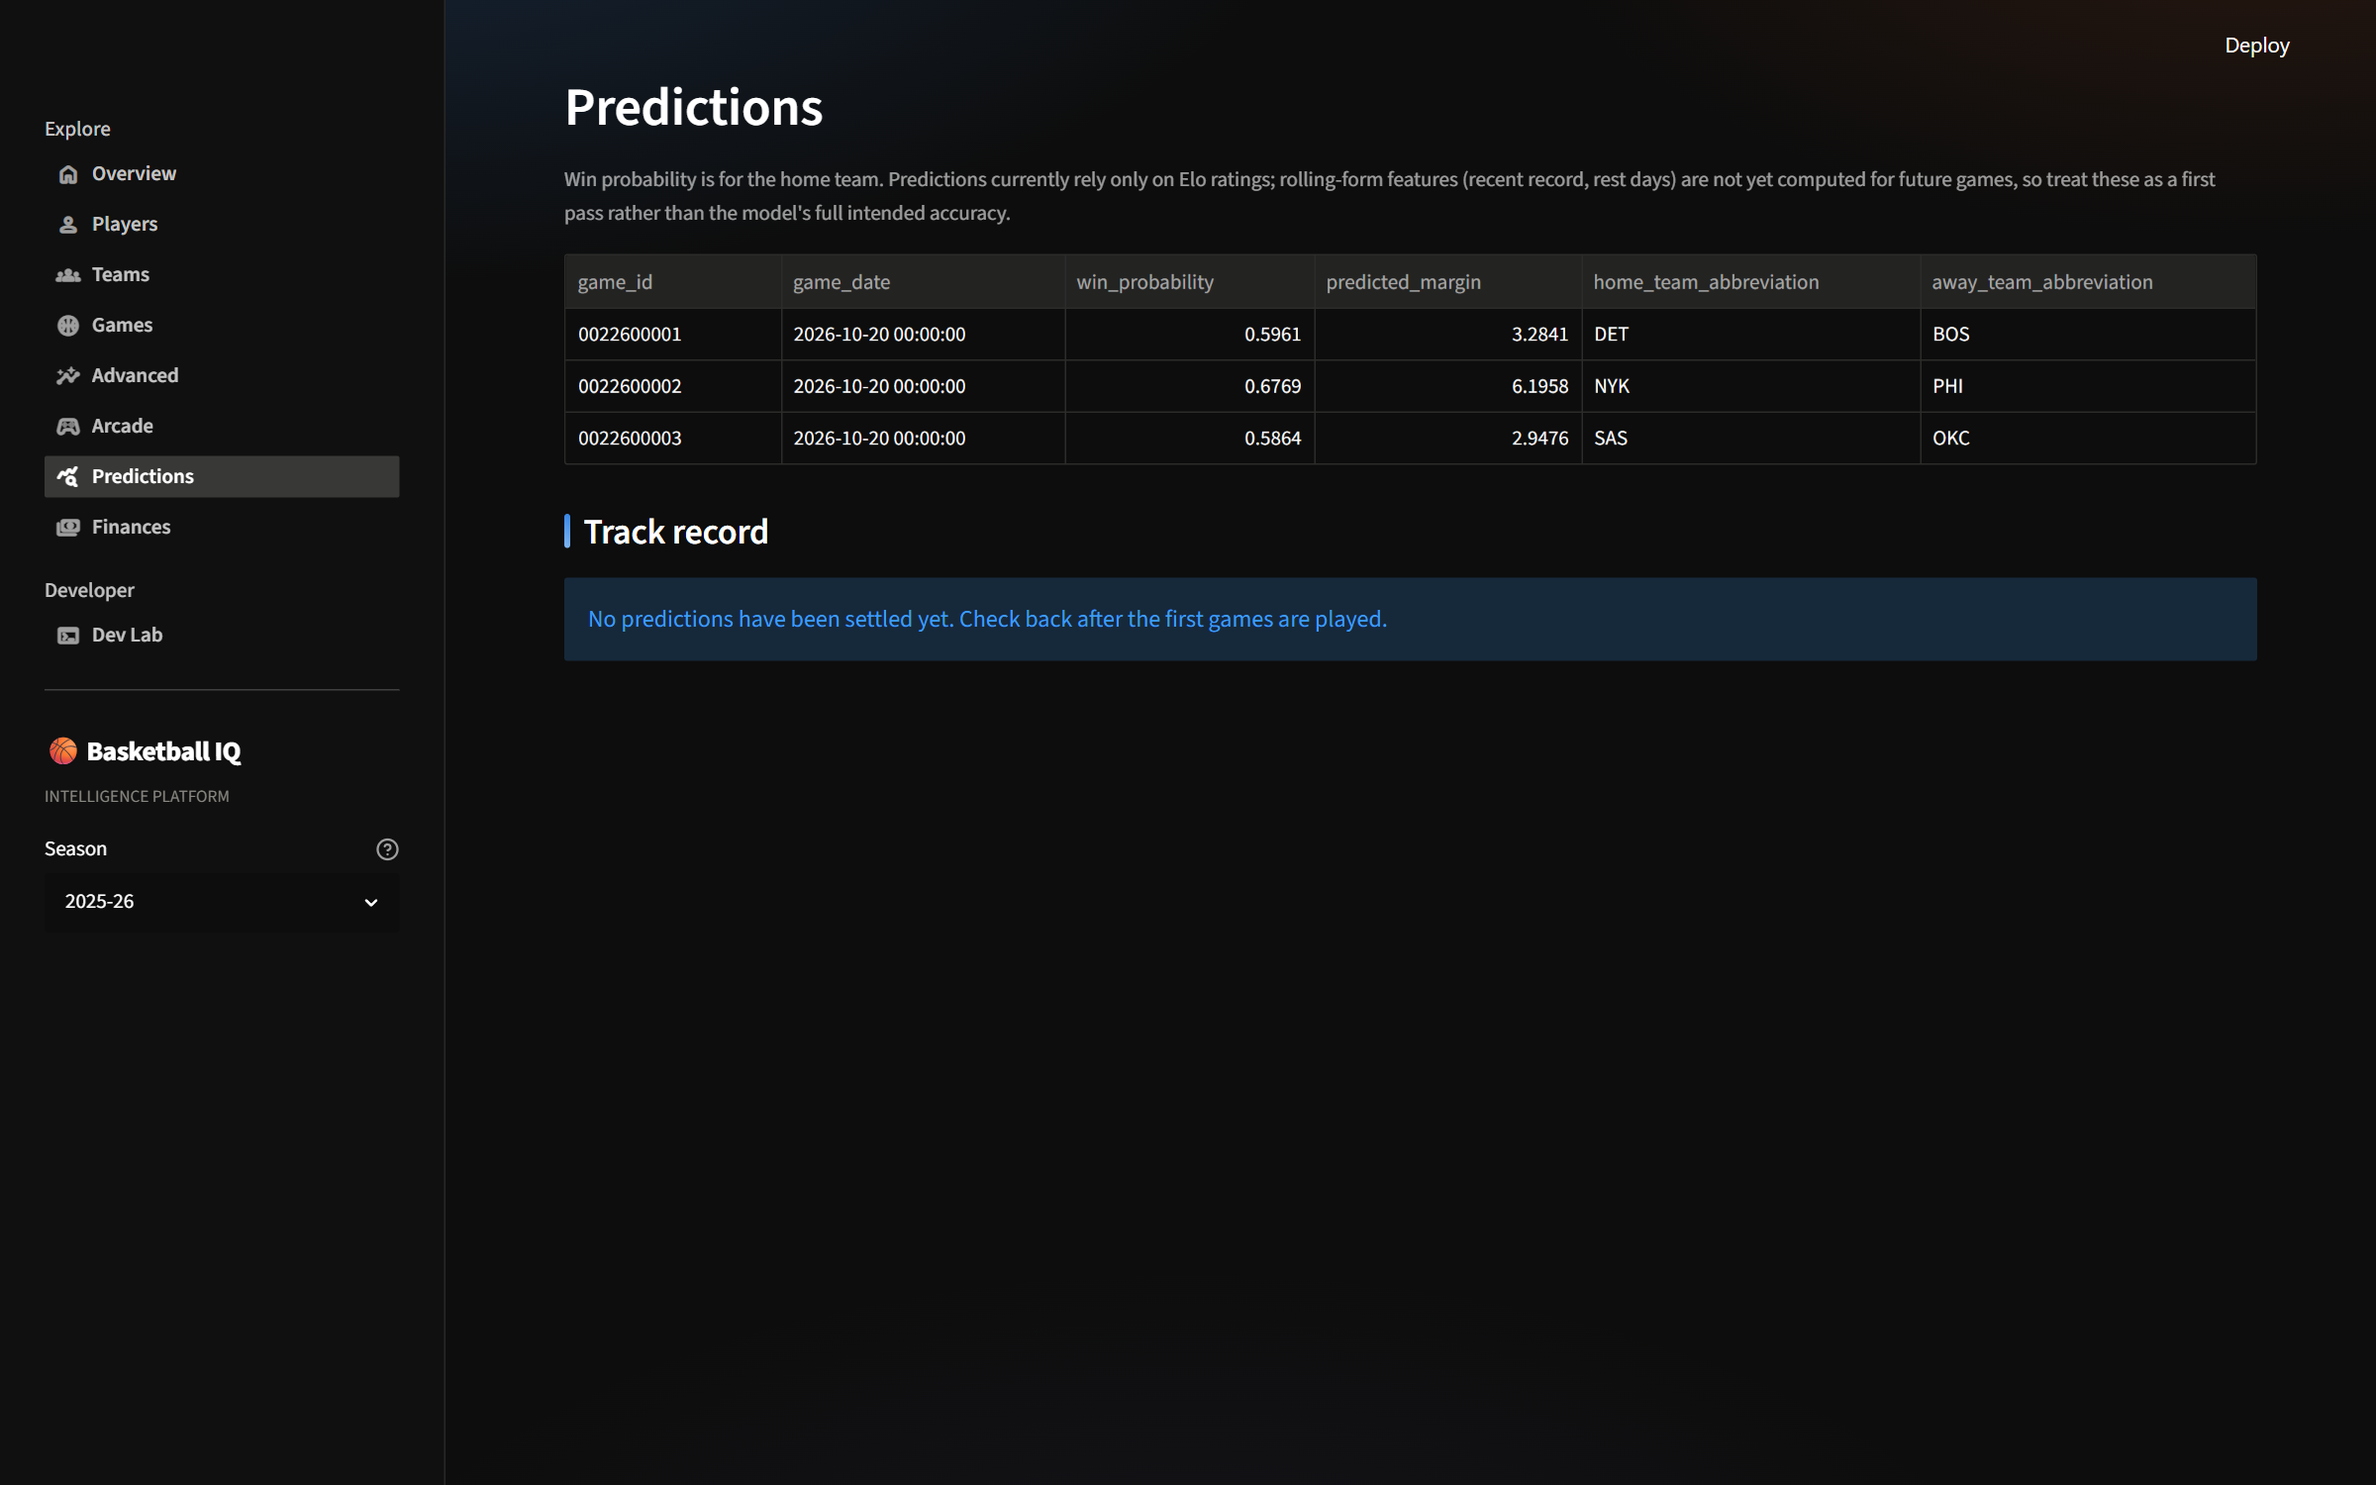
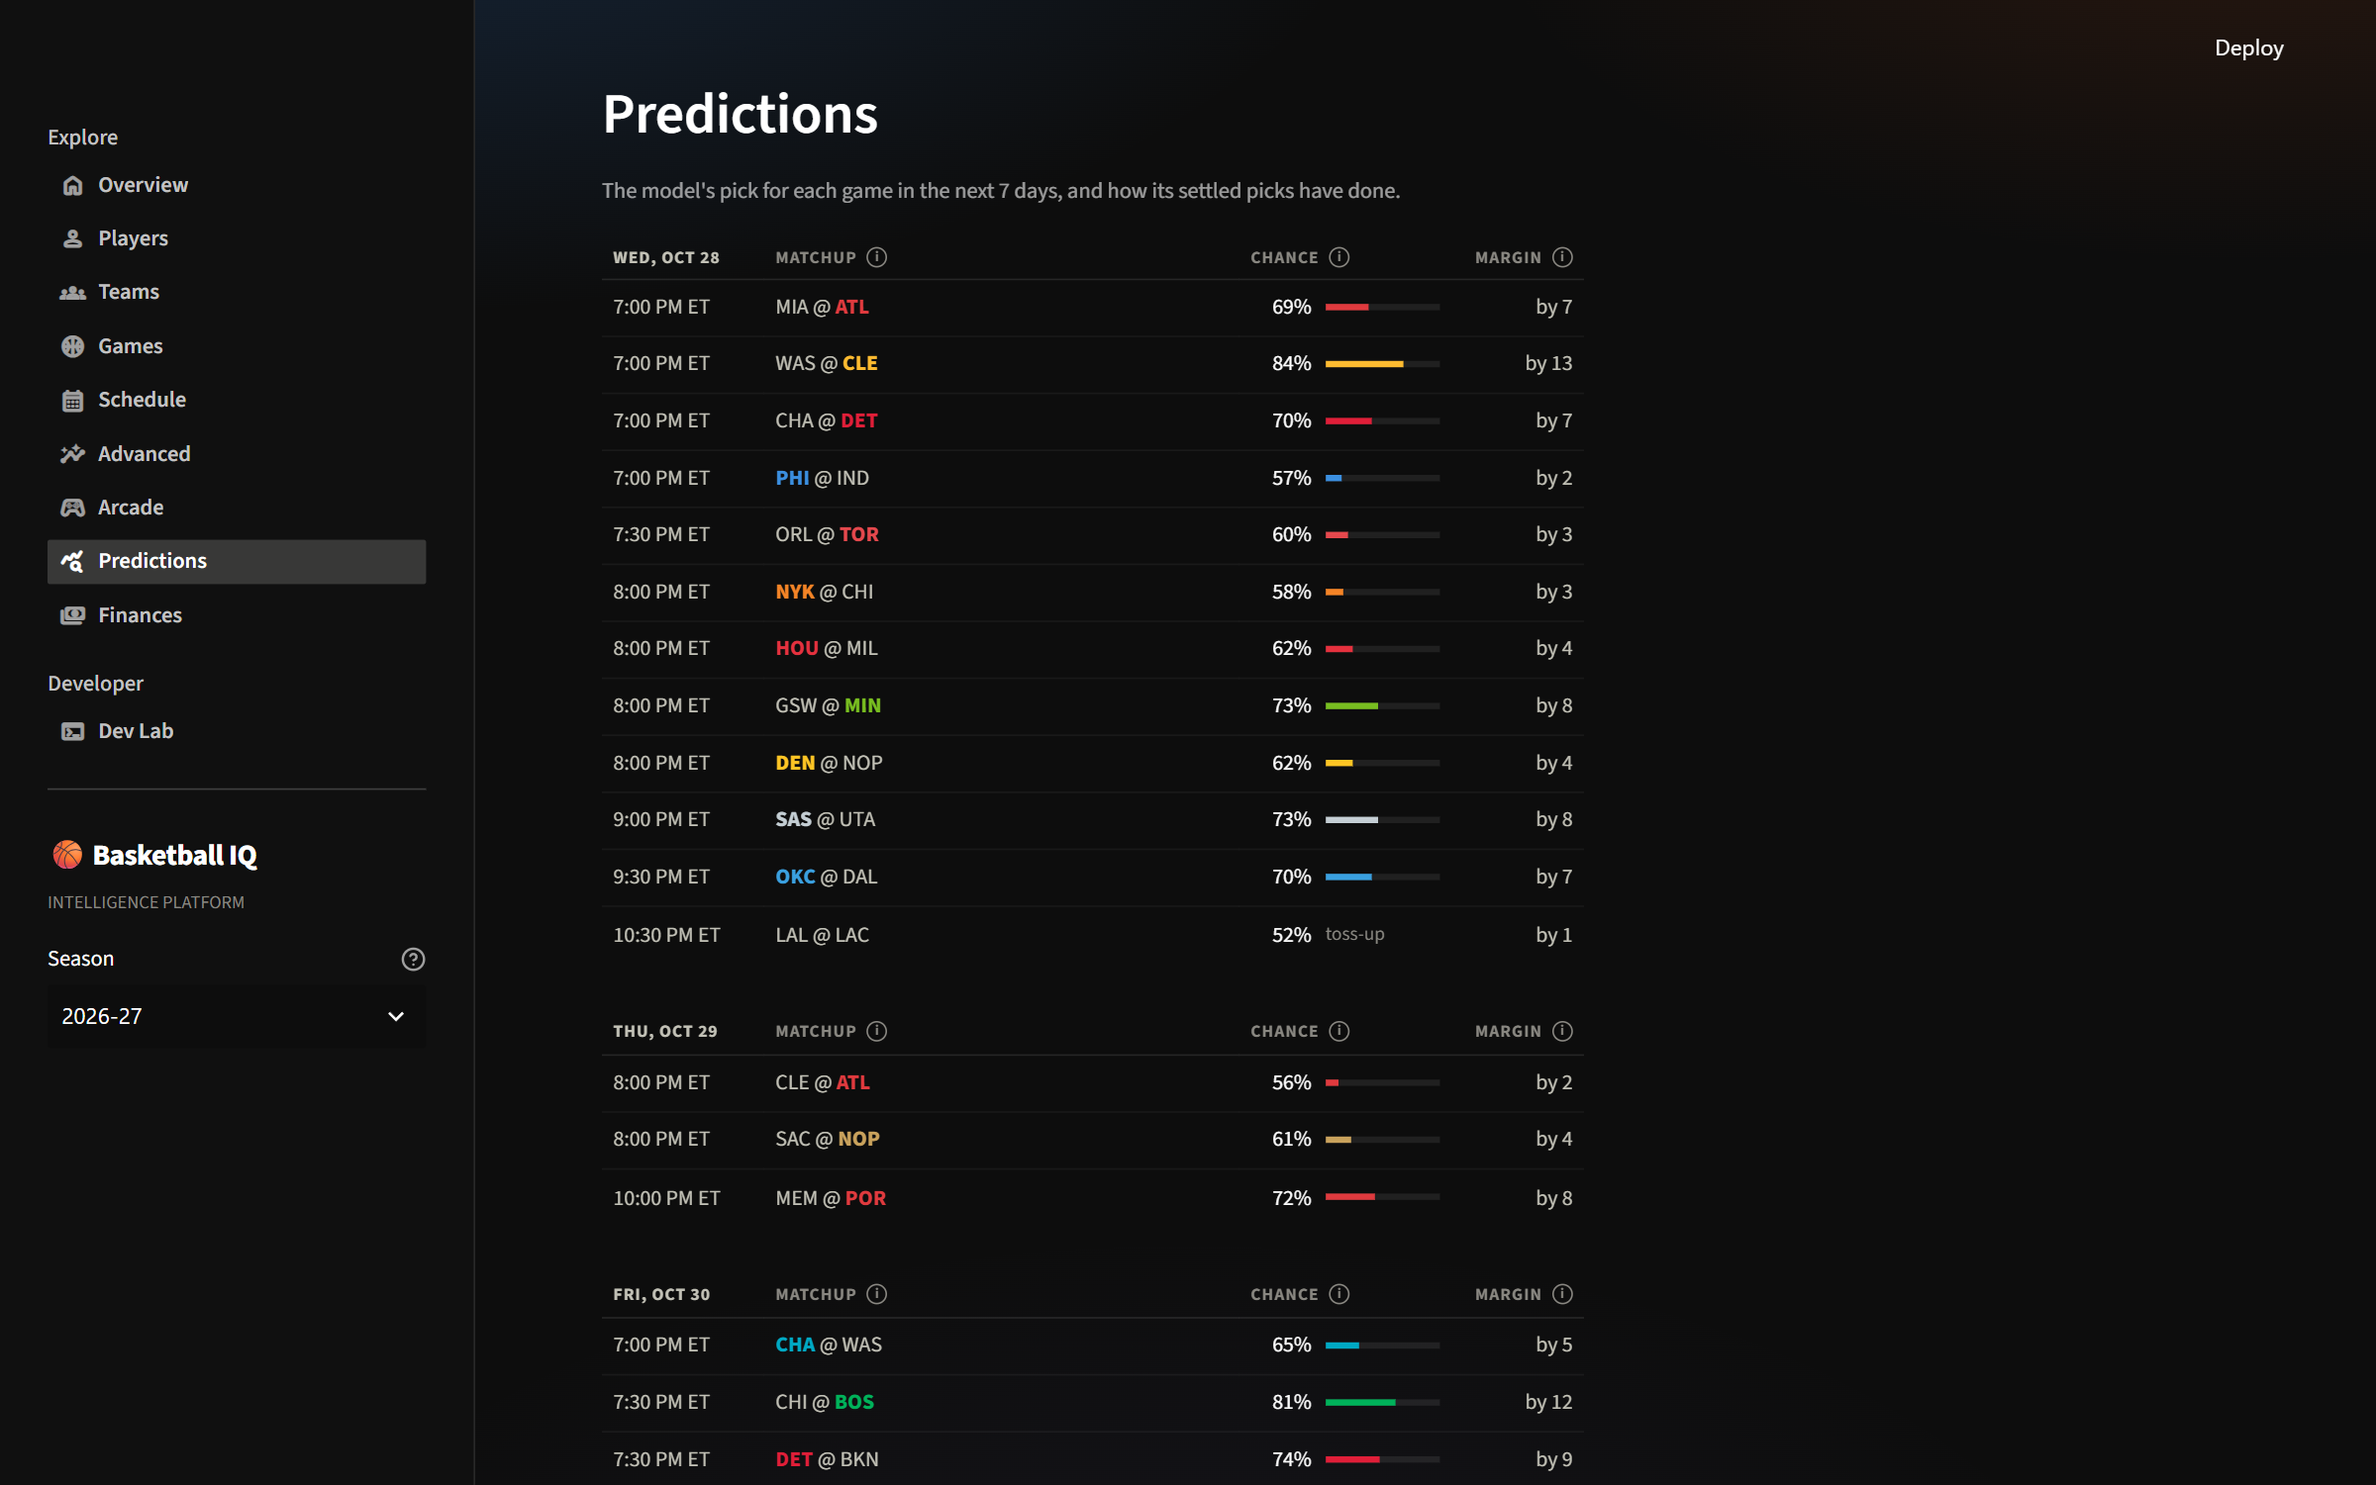
Document the diagnosis views, schedule and predictions
The README still described the Four Factors table, the card-based
Predictions page and no Schedule page. It now covers the Teams ranks,
player breakdown and two-stat scatter, the Players Stats/Scatter/Compare
tabs, the Schedule calendar and the compact Predictions list, in the same
evidence-first terms. Screenshots for Teams, Players and Predictions are
retaken against the new pages and schedule.png is new.

ADR 0006 records that the defensive on/off is an estimate (how it is
derived, when it is shown, and that it is noisy). The architecture
diagram gains the Schedule page and the four new marts. The settled
predictions mart's header no longer says the dashboard keeps a copy of
its SQL, since the copy and its test are gone; comment only, dbt build
still passes. Test and mart counts in the README and CONTRIBUTING are
brought up to date.

diff --git a/README.md b/README.md
@@ -4,8 +4,8 @@
 
 A local-first NBA data platform: ingest NBA stats and team salaries, warehouse
 them in DuckDB, model them with dbt, and serve a public dashboard covering
-players, teams, games, advanced stats, team finances and game predictions
-across 47 seasons of NBA history. Natural-language Q&A is not built yet; see
+players, teams, games, the schedule, advanced stats, team finances and game
+predictions across 47 seasons of NBA history. Natural-language Q&A is not built yet; see
 Status / roadmap below.
 
 ## Screenshots
@@ -13,12 +13,12 @@ Status / roadmap below.
 **Overview** - best record, league and efficiency leaders, conference standings
 ![Overview](site_pictures/overview.png)
 
-**Players** - season stats table; player detail with scoring trend and
-shooting-vs-league comparison
+**Players** - a player's detail on the Stats tab: scoring trend with a stat
+picker, shooting-vs-league percentiles and a colour-coded game log
 ![Players](site_pictures/players.png)
 
-**Teams** - one team in depth: ratings with league ranks, the Four Factors,
-record splits and its roster, with full standings in their own tab
+**Teams** - one team in depth: where it ranks in the league on about 17
+stats, then a breakdown of its players in each area
 ![Teams](site_pictures/teams.png)
 
 **Games** - results browser; game detail with a score-margin flow chart and
@@ -33,8 +33,12 @@ and a per-player percentile profile
 with a plain-English summary and the team's biggest contracts
 ![Finances](site_pictures/finances.png)
 
-**Predictions** - upcoming games as cards with each team's win probability
-and the expected margin, plus the model's track record
+**Schedule** - a month calendar with a day view: finals with each game's top
+scorer and a link to the game, or tip-offs with the model's pick
+![Schedule](site_pictures/schedule.png)
+
+**Predictions** - the next week of games as a compact list with the model's
+pick, chance and margin, plus its track record
 ![Predictions](site_pictures/predictions.png)
 
 **Arcade** - Higher or Lower, Mystery Player, and Build a team: build or
@@ -61,9 +65,11 @@ dbt (dbt-duckdb)
                         (both hand-curated)
         - staging       clean, rename, type raw tables (views)
         - intermediate  pair each team-game with its opponent
-        - marts         every number the site shows: player seasons, stints
-                        and careers, team seasons, standings, game features,
-                        team finances, contracts, graded predictions
+        - marts         every number the site shows: player seasons, stints,
+                        careers and game logs, team seasons, standings,
+                        league ranks and percentiles, defensive on/off,
+                        game features, team finances, contracts, graded
+                        predictions
         |
         v
 ml/                                Elo + ridge model; appends predictions to
@@ -156,9 +162,10 @@ ml/                                # Elo ratings, ridge model, backtest, predict
 dashboard/app.py                   # Streamlit app entry point
 dashboard/lib/data/                # read-only queries, one module per domain
 dashboard/lib/                     # charts, cards, theme, simulator, franchise lineage,
-                                   # payroll wording, stat glossary
-dashboard/views/                   # one module per page; arcade/ is a package with
-                                   # one module per game
+                                   # payroll wording, stat glossary, matchup and
+                                   # compare helpers
+dashboard/views/                   # one module per page; arcade/, players/ and teams/
+                                   # are packages (one module per game or tab)
 data/predictions/history.csv       # every published prediction (committed)
 data/fixtures/                     # small real-data slices CI builds its warehouse from
 tests/                             # pytest suite
@@ -177,19 +184,35 @@ all drawn from one glossary (`dashboard/lib/glossary.py`).
 - **Overview**: the team with the best record, league leaders, efficiency
   leaders (true shooting, usage, game score, assist-to-turnover), conference
   standings, latest games
-- **Players**: filterable season stats table; player detail with scoring
-  trend (5-game rolling average) and shooting-vs-league comparison; a career
-  view pooling every season
+- **Players**: three tabs. *Stats* has the filterable season stats table, a
+  career view pooling every season, and a player detail with a trend for any
+  stat (5-game rolling average), shooting-vs-league percentiles and a
+  game log tinted green or red against his own season average. *Scatter*
+  plots any two player stats for a season, with a minimum-games and team
+  filter. *Compare* sets two player-seasons from any era side by side: a
+  percentile radar, with each player ranked against his own season's
+  qualified players, plus per-game bars
 - **Teams**: a Team tab with record and seed, net/offensive/defensive rating
-  and pace with league ranks, the team's payroll, the Four Factors (shooting,
-  turnovers, rebounding, free throws - offense and defense, against the
-  league average), home/away, last-10, streak, close-game and vs-winning-team
-  records, a per-game margin chart and its roster; a Standings tab with
-  last-5 form for either conference or the whole league. A player traded
-  mid-season counts on each roster only for the games he played there, and
-  the Players and Advanced tables label him with both teams (CHI → BOS)
+  and pace with league ranks, the team's payroll, home/away, last-10, streak,
+  close-game and vs-winning-team records and a per-game margin chart. Three
+  views for investigating a team: *How they rank in the league* (percentile
+  bars for about 17 stats, with the value and rank printed on each),
+  *Player breakdown* (pick an area, such as scoring efficiency, ball
+  security, rebounding or fouling, and see the rotation's numbers against
+  the league median; "defense on/off" is an estimate, see
+  [ADR 0006](docs/adr/0006-known-limitations.md)) and *Compare two stats*
+  (any two team stats across all 30 teams). The roster follows, and a
+  Standings tab has last-5 form for either conference or the whole league. A
+  player traded mid-season counts on each roster only for the games he
+  played there, and the Players and Advanced tables label him with both
+  teams (CHI → BOS)
 - **Games**: results browser; game detail with box scores and, for games
   with play-by-play ingested, a game-flow (score margin) chart and shot chart
+- **Schedule**: a month calendar, one cell per day with its game count. A
+  day opens as a list: finals with each game's top scorer and an "Open game"
+  button that goes to the Games page, or upcoming games with tip-off (Eastern)
+  and the model's pick. Picking a team shows its opponent on each day and its
+  whole season with a running record
 - **Advanced**: rate metrics (true shooting, usage, assist/rebound/steal/block
   rates, game score) with a minutes floor, efficiency leaderboards, a
   percentile profile per player, and a two-player head-to-head. Official NBA
@@ -203,11 +226,13 @@ all drawn from one glossary (`dashboard/lib/glossary.py`).
   original Charlotte Hornets' with New Orleans. Seasons where the source's
   salary data is incomplete show as gaps rather than misleadingly low totals,
   and the page says when the salary data was last updated
-- **Predictions**: upcoming games grouped by date, each a card with the
-  tip-off time (Eastern), a two-team win-probability bar and a verdict like
-  "BOS by 6 · 65%". Once games settle: accuracy, Brier score, margin error, a
-  calibration chart (how often a 70% favorite actually won) and recent
-  results with ✓/✗. Currently Elo ratings only - rolling-form features
+- **Predictions**: the next 7 days as a compact list grouped by date: tip-off
+  (Eastern), the matchup with the favourite in its team colour, its chance
+  and the margin ("by 6"), with games under 55% marked a toss-up. Once games
+  settle: accuracy, Brier score and margin error, a calibration chart (how
+  often a 70% favorite actually won) in a collapsed section, and the 10 most
+  recent results with ✓/✗, all read from the `mart_settled_predictions`
+  mart. Later games are on the Schedule page. Currently Elo ratings only - rolling-form features
   (recent record, rest days) aren't computed for future games yet, so treat
   it as a first pass rather than the model's intended accuracy
 - **Arcade**: games on top of the full history. *Higher or Lower* (which
@@ -342,11 +367,11 @@ explains why it works this way.
       recent games. Game logs land as one parquet per season under
       `data/raw/player_game_logs/` etc., so backfills resume where they left off
 - [x] DuckDB warehouse with `raw` schema
-- [x] dbt staging (10 models), intermediate (1) and marts (11), plus salary
-      cap history and team code seeds; 113 dbt tests and 657 pytest cases.
+- [x] dbt staging (10 models), intermediate (1) and marts (15), plus salary
+      cap history and team code seeds; 132 dbt tests and 917 pytest cases.
       CI runs ruff, mypy, `dbt build` and pytest against small committed
       fixtures cut from the real data (`data/fixtures/`), which cover every
-      era the tests check; the 6 tests that need all seasons are marked
+      era the tests check; the 9 tests that need all seasons are marked
       `full_warehouse` and run locally only
 - [x] Advanced metrics: per-possession ratings, usage and rate stats, four
       factors. Official NBA advanced stats pulled for 1996-97 onward (one API

diff --git a/docs/adr/0006-known-limitations.md b/docs/adr/0006-known-limitations.md
@@ -66,6 +66,23 @@ current architecture:
    backfilled: `ingestion/nba_ingest.py --all-pbp` can do it, at about
    1,300 API calls per season.
 
+6. **The defensive on/off on the Teams page is an estimate.** The NBA
+   publishes each player's defensive rating while he is on the court, but
+   not the team's rating while he is off it. The page estimates it as
+   `(team - s * on) / (1 - s)`, where `team` is the team's season
+   defensive rating, `on` the player's on-court rating and
+   `s = minutes / (team games * 48)`, his share of the team's minutes
+   (`mart_player_defense`). It is only computed for seasons from 1996-97
+   (when the NBA's on-court ratings start), for players with 500 or more
+   minutes, and for seasons spent entirely with one team, since a traded
+   player's on-court rating mixes two teams. It is also noisy: it moves
+   with lineups and teammates, so a stopper who guards stars next to the
+   starters can look worse than he is. A check on 2024-25 found the
+   expected names near the top (Holiday at -4.6, a negative number
+   meaning the team defends better with him on), and Dort at +1.5 shows
+   the noise. The page labels it an estimate, and none of it replaces
+   film.
+
 ## Consequences
 
 Writing these down makes the operational, data and business risk profile
@@ -88,3 +105,6 @@ Limitation 4 is a model change: refit the spread and the home edge, bump
 `model_version`, and let the track record show the new version
 separately. Limitation 5 is a backfill run, limited by the API's rate
 rather than by code.
+Limitation 6 is inherent to the source: the on/off figures would need
+lineup data (possession-level substitutions), which the roadmap lists as
+not built.

diff --git a/CONTRIBUTING.md b/CONTRIBUTING.md
@@ -108,14 +108,14 @@ python -m pytest -q                            # everything, against your local 
 python -m pytest -q -m "not full_warehouse"    # what CI runs
 ```
 
-The full run is 657 tests and takes about a minute. Tests read the real
+The full run is about 917 tests and takes about two minutes. Tests read the real
 warehouse and assert facts that are true of the data itself, not row counts
 that change every week.
 
 CI can't reach stats.nba.com, so it builds a small warehouse from
 `data/fixtures/` (real data, cut down to a few seasons; its
 [README](data/fixtures/README.md) says what each file is for) and
-deselects the 6 tests marked `full_warehouse`. It also sets `CI`, and then
+deselects the 9 tests marked `full_warehouse`. It also sets `CI`, and then
 any skipped test fails the run: a skip in CI means a gap in the fixtures is
 hiding a test.
 
